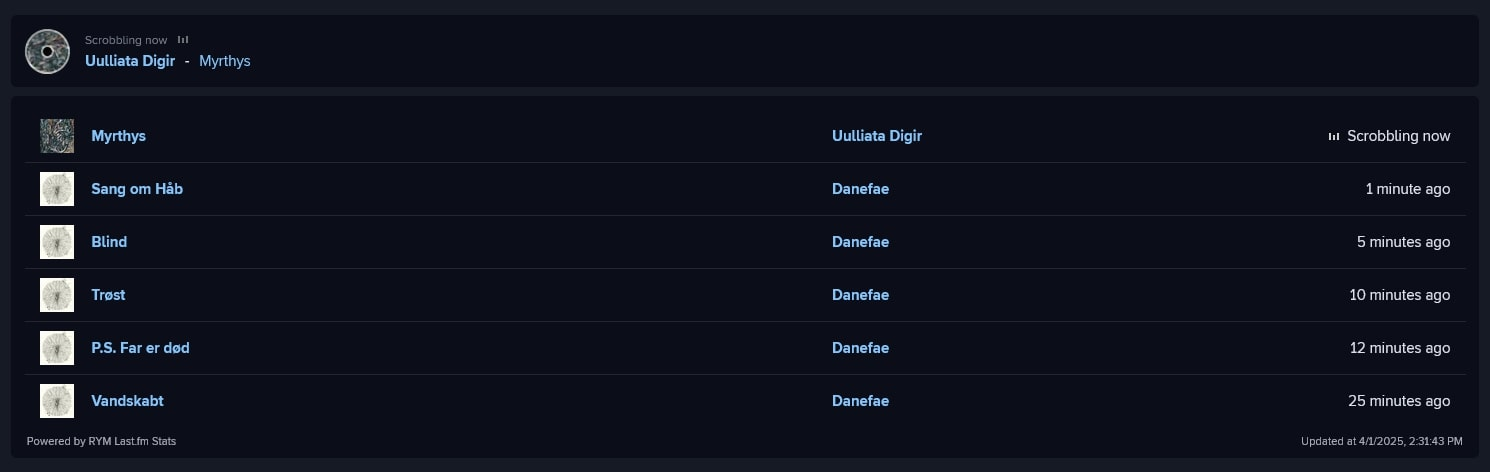
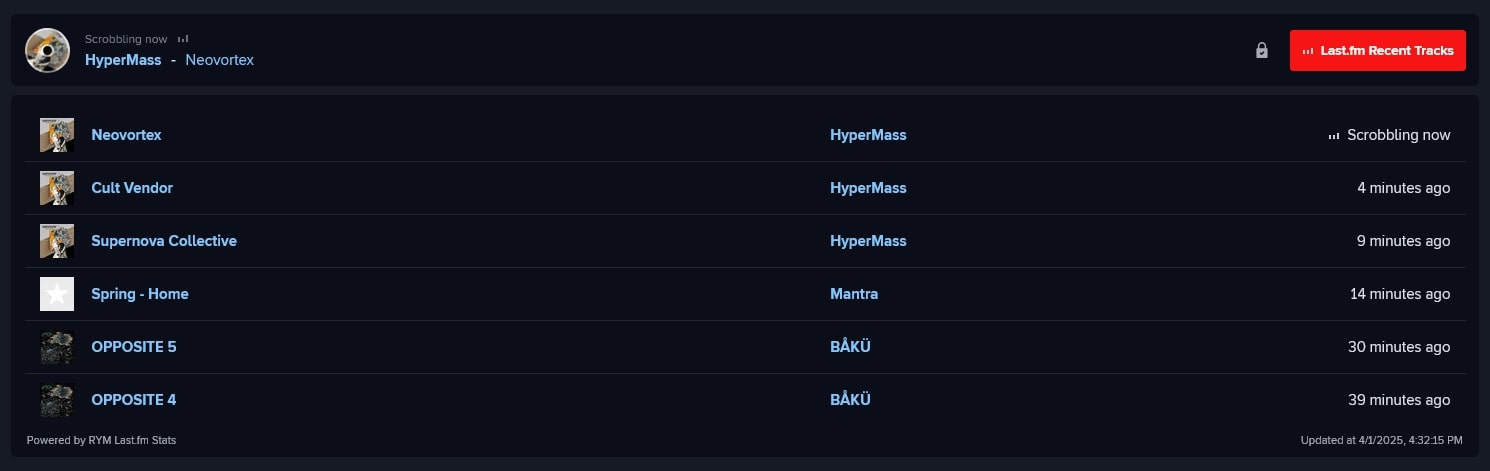
.

diff --git a/src/modules/profile/recentTracks.js b/src/modules/profile/recentTracks.js
@@ -5,6 +5,9 @@ import * as utils from '@/helpers/utils.js';
 import * as constants from '@/helpers/constants.js';
 import * as api from '@/helpers/api.js';
 
+import lockSvg from '@/assets/icons/lock.svg?raw';
+import unlockSvg from '@/assets/icons/unlock.svg?raw';
+
 import './recentTracks.css';
 
 let abortController = new AbortController();
@@ -178,8 +181,22 @@ function populatePlayHistoryItem(
   }
 }
 
+function createLockButton() {
+  const button = document.createElement('button');
+  button.classList.add('btn-lastfm-lock');
+
+  const unlockIcon = new DOMParser().parseFromString(unlockSvg, 'image/svg+xml').documentElement;
+  const lockIcon = new DOMParser().parseFromString(lockSvg, 'image/svg+xml').documentElement;
+
+  button.appendChild(unlockIcon);
+  button.appendChild(lockIcon);
+
+  return button;
+}
+
 function prepareRecentTracksUI() {
-  let button;
+  const button = createLastfmButton();
+  const lockButton = createLockButton();
   const tracksWrapper = document.createElement('div');
   let playHistoryItem;
 
@@ -190,12 +207,23 @@ function prepareRecentTracksUI() {
 
   if (config.recentTracksShowOnLoad) {
     tracksWrapper.classList.add('is-active');
-  } else {
-    button = createLastfmButton()
-    button.addEventListener('click', () => {
-      tracksWrapper.classList.toggle('is-active');
-    });
+    lockButton.classList.add('is-locked');
   }
+
+  button.addEventListener('click', () => {
+    tracksWrapper.classList.toggle('is-active');
+  });
+
+  lockButton.addEventListener('click', async () => {
+    if (lockButton.classList.contains('is-locked')) {
+      await utils.storageSet({ recentTracksShowOnLoad: false });
+      lockButton.classList.remove('is-locked');
+    } else {
+      await utils.storageSet({ recentTracksShowOnLoad: true });
+      lockButton.classList.add('is-locked');
+      tracksWrapper.classList.add('is-active');
+    }
+  });
 
   if (config.recentTracksReplace) {
     const panelContainer = document.querySelector('.profile_listening_container');
@@ -219,6 +247,7 @@ function prepareRecentTracksUI() {
 
   return {
     button,
+    lockButton,
     tracksWrapper,
     playHistoryItem,
   };
@@ -516,16 +545,15 @@ async function render(_config, _userName) {
 
   addRecentTracksStyles();
 
-  const { button, tracksWrapper, playHistoryItem } = prepareRecentTracksUI();
+  const { button, lockButton, tracksWrapper, playHistoryItem } = prepareRecentTracksUI();
 
-  if (button) {
-    const buttonsContainer = document.querySelector(
-      PROFILE_LISTENING_BUTTONS_CONTAINER_SELECTOR,
-    );
+  const buttonsContainer = document.querySelector(
+    PROFILE_LISTENING_BUTTONS_CONTAINER_SELECTOR,
+  );
 
-    if (buttonsContainer) {
-      buttonsContainer.prepend(button);
-    }
+  if (buttonsContainer) {
+    buttonsContainer.prepend(button);
+    buttonsContainer.prepend(lockButton);
   }
 
   const populateRecentTracks = (data, timestamp) => {

diff --git a/src/modules/profile/recentTracks.css b/src/modules/profile/recentTracks.css
@@ -174,3 +174,38 @@ html[data-scheme="dark"] {
     }
   }
 }
+
+.btn-lastfm-lock {
+  display: inline-block;
+  border: none;
+  background: none;
+  appearance: none;
+  padding: 0;
+  margin: 0;
+  margin-right: -1rem;
+  cursor: pointer;
+  color: currentColor;
+  opacity: 0.75;
+  padding: 10px;
+
+  svg {
+    width: 16px;
+    height: 16px;
+    &:first-child {
+      display: block;
+    }
+    &:last-child {
+      display: none;
+    }
+  }
+  &.is-locked {
+    svg {
+      &:first-child {
+        display: none;
+      }
+      &:last-child {
+        display: block;
+      }
+    }
+  }
+}

diff --git a/src/components/options/PageOptions.vue b/src/components/options/PageOptions.vue
@@ -368,13 +368,6 @@
               label="Recent tracks"
             />
 
-            <!-- RECENT TRACKS SHOW ON LOAD -->
-            <FormCheckbox
-              v-model="options.recentTracksShowOnLoad"
-              name="recentTracksShowOnLoad"
-              label="Show Recent tracks on page load"
-            />
-
             <!-- RECENT TRACKS REPLACE -->
             <FormCheckbox
               v-model="options.recentTracksReplace"
